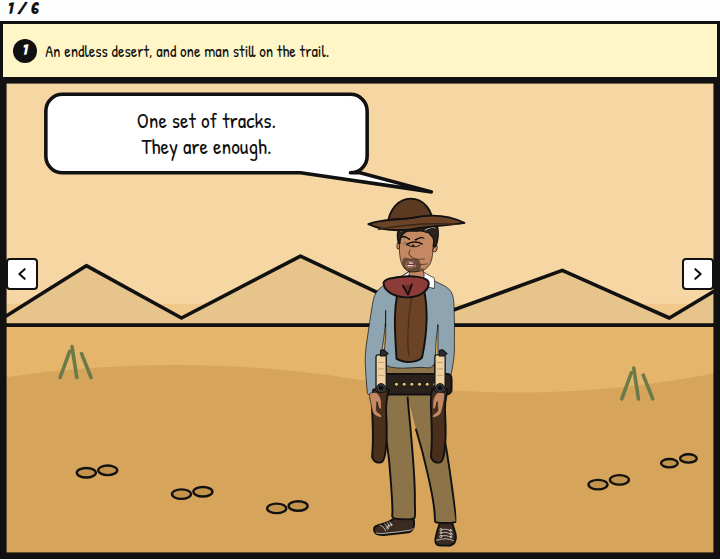
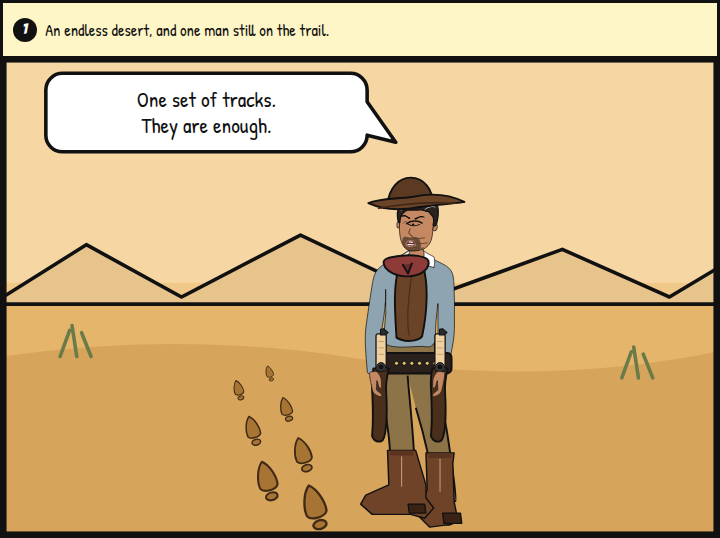
Polish the Gunslinger art: western boots, boot tracks, and shorter speech tails.
Remove the cold-ash smoke, shrink the man in black's hand into the sleeve, and recapture the teaser from the panel art alone.

diff --git a/_includes/comicbook-the-gunslinger.html b/_includes/comicbook-the-gunslinger.html
@@ -25,21 +25,39 @@
   <path d="M48,250 L56,228 M62,250 L58,224 M74,250 L66,230"/>
   <path d="M520,268 L528,246 M534,268 L530,242 M546,268 L538,248"/>
 </g>
-<g fill="#c4944c" stroke="#111" stroke-width="2">
-  <ellipse cx="70" cy="330" rx="8" ry="4"/>
-  <ellipse cx="88" cy="328" rx="8" ry="4"/>
-  <ellipse cx="150" cy="348" rx="8" ry="4"/>
-  <ellipse cx="168" cy="346" rx="8" ry="4"/>
-  <ellipse cx="230" cy="360" rx="8" ry="4"/>
-  <ellipse cx="248" cy="358" rx="8" ry="4"/>
-  <ellipse cx="500" cy="340" rx="8" ry="4"/>
-  <ellipse cx="518" cy="336" rx="8" ry="4"/>
-  <ellipse cx="560" cy="322" rx="7" ry="3.5"/>
-  <ellipse cx="576" cy="318" rx="7" ry="3.5"/>
+<g fill="#a87434" stroke="#3f2a16" stroke-width="1.6" stroke-linejoin="round">
+  <g transform="translate(262,376) rotate(-16) scale(1.22)">
+    <path d="M-7,5 C-8,-1 -5,-11 0,-15 C5,-11 8,-1 7,5 C5,9 -5,9 -7,5Z"/>
+    <ellipse cx="0" cy="13" rx="4.6" ry="3"/>
+  </g>
+  <g transform="translate(222,354) rotate(-16) scale(1.08)">
+    <path d="M-7,5 C-8,-1 -5,-11 0,-15 C5,-11 8,-1 7,5 C5,9 -5,9 -7,5Z"/>
+    <ellipse cx="0" cy="13" rx="4.6" ry="3"/>
+  </g>
+  <g transform="translate(252,332) rotate(-16) scale(0.94)">
+    <path d="M-7,5 C-8,-1 -5,-11 0,-15 C5,-11 8,-1 7,5 C5,9 -5,9 -7,5Z"/>
+    <ellipse cx="0" cy="13" rx="4.6" ry="3"/>
+  </g>
+  <g transform="translate(210,312) rotate(-16) scale(0.8)">
+    <path d="M-7,5 C-8,-1 -5,-11 0,-15 C5,-11 8,-1 7,5 C5,9 -5,9 -7,5Z"/>
+    <ellipse cx="0" cy="13" rx="4.6" ry="3"/>
+  </g>
+  <g transform="translate(238,294) rotate(-16) scale(0.66)">
+    <path d="M-7,5 C-8,-1 -5,-11 0,-15 C5,-11 8,-1 7,5 C5,9 -5,9 -7,5Z"/>
+    <ellipse cx="0" cy="13" rx="4.6" ry="3"/>
+  </g>
+  <g transform="translate(198,278) rotate(-16) scale(0.54)">
+    <path d="M-7,5 C-8,-1 -5,-11 0,-15 C5,-11 8,-1 7,5 C5,9 -5,9 -7,5Z"/>
+    <ellipse cx="0" cy="13" rx="4.6" ry="3"/>
+  </g>
+  <g transform="translate(224,264) rotate(-16) scale(0.42)">
+    <path d="M-7,5 C-8,-1 -5,-11 0,-15 C5,-11 8,-1 7,5 C5,9 -5,9 -7,5Z"/>
+    <ellipse cx="0" cy="13" rx="4.6" ry="3"/>
+  </g>
 </g>
 <image href="{{ '/assets/comics/the-gunslinger/roland-side.svg' | relative_url }}" x="300" y="96" width="92" height="300" transform="translate(692,0) scale(-1,1)"/>
 <g class="bubble">
-<path d="M50,12H292A14,14 0 0 1 306,26V64A14,14 0 0 1 292,78H300L360,94L250,78H50A14,14 0 0 1 36,64V26A14,14 0 0 1 50,12Z" fill="#fff" stroke="#111" stroke-width="3" stroke-linejoin="round"/>
+<path d="M50,12H292A14,14 0 0 1 306,26V36L330,70L306,64A14,14 0 0 1 292,78H50A14,14 0 0 1 36,64V26A14,14 0 0 1 50,12Z" fill="#fff" stroke="#111" stroke-width="3" stroke-linejoin="round"/>
 <text x="171" y="40" font-family="'Patrick Hand', 'Comic Neue', 'Comic Sans MS', cursive" font-size="18" fill="#111" text-anchor="middle">One set of tracks.</text>
 <text x="171" y="62" font-family="'Patrick Hand', 'Comic Neue', 'Comic Sans MS', cursive" font-size="18" fill="#111" text-anchor="middle">They are enough.</text>
 </g>
@@ -68,7 +86,6 @@
   <path d="M444,320 L492,288" fill="none" stroke="#2a241c" stroke-width="4" stroke-linecap="round"/>
   <path d="M446,290 L494,322" fill="none" stroke="#1c1814" stroke-width="4" stroke-linecap="round"/>
   <path d="M458,314 L480,294" fill="none" stroke="#3a3228" stroke-width="3" stroke-linecap="round"/>
-  <path d="M468,286 C472,270 460,258 468,244 C474,232 462,220 470,206" fill="none" stroke="#d9d3cc" stroke-width="3" stroke-linecap="round"/>
 </g>
 <image href="{{ '/assets/comics/the-gunslinger/roland-side-down.svg' | relative_url }}" x="100" y="100" width="89" height="290" transform="translate(289,0) scale(-1,1)"/>
 <g class="bubble">
@@ -117,7 +134,7 @@
 <image href="{{ '/assets/comics/the-gunslinger/man-in-black.svg' | relative_url }}" x="488" y="22" width="85" height="190"/>
 <image href="{{ '/assets/comics/the-gunslinger/roland-side.svg' | relative_url }}" x="36" y="176" width="68" height="220" transform="translate(140,0) scale(-1,1)"/>
 <g class="bubble">
-<path d="M134,8H376A14,14 0 0 1 390,22V62A14,14 0 0 1 376,76H370L455,112L347,76H134A14,14 0 0 1 120,62V22A14,14 0 0 1 134,8Z" fill="#fff" stroke="#111" stroke-width="3" stroke-linejoin="round"/>
+<path d="M134,8H376A14,14 0 0 1 390,22V30L422,56L390,62A14,14 0 0 1 376,76H134A14,14 0 0 1 120,62V22A14,14 0 0 1 134,8Z" fill="#fff" stroke="#111" stroke-width="3" stroke-linejoin="round"/>
 <text x="255" y="36" font-family="'Patrick Hand', 'Comic Neue', 'Comic Sans MS', cursive" font-size="18" fill="#111" text-anchor="middle">Take your time.</text>
 <text x="255" y="58" font-family="'Patrick Hand', 'Comic Neue', 'Comic Sans MS', cursive" font-size="18" fill="#111" text-anchor="middle">I enjoy the view.</text>
 </g>
